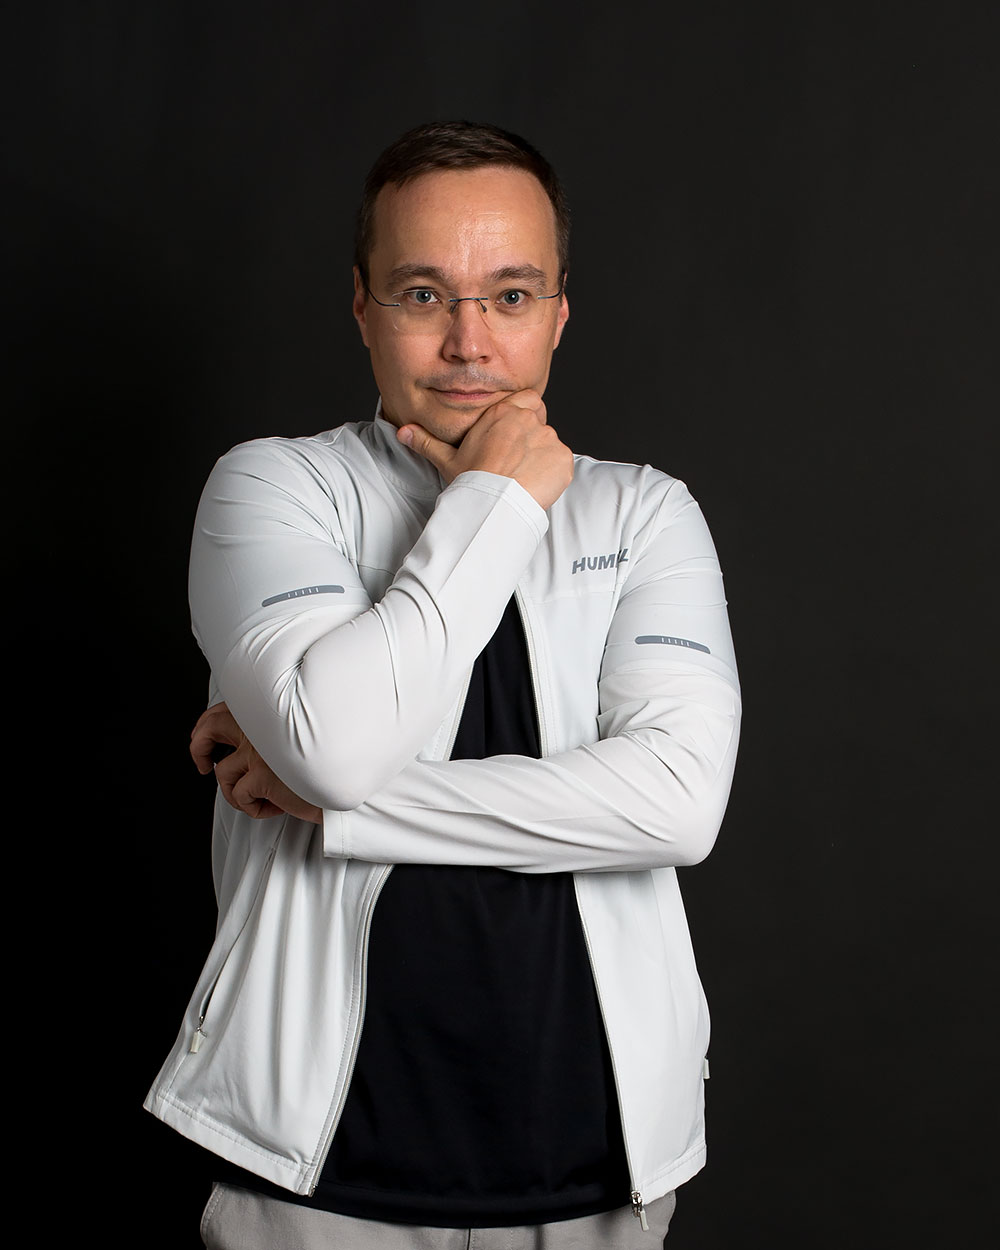
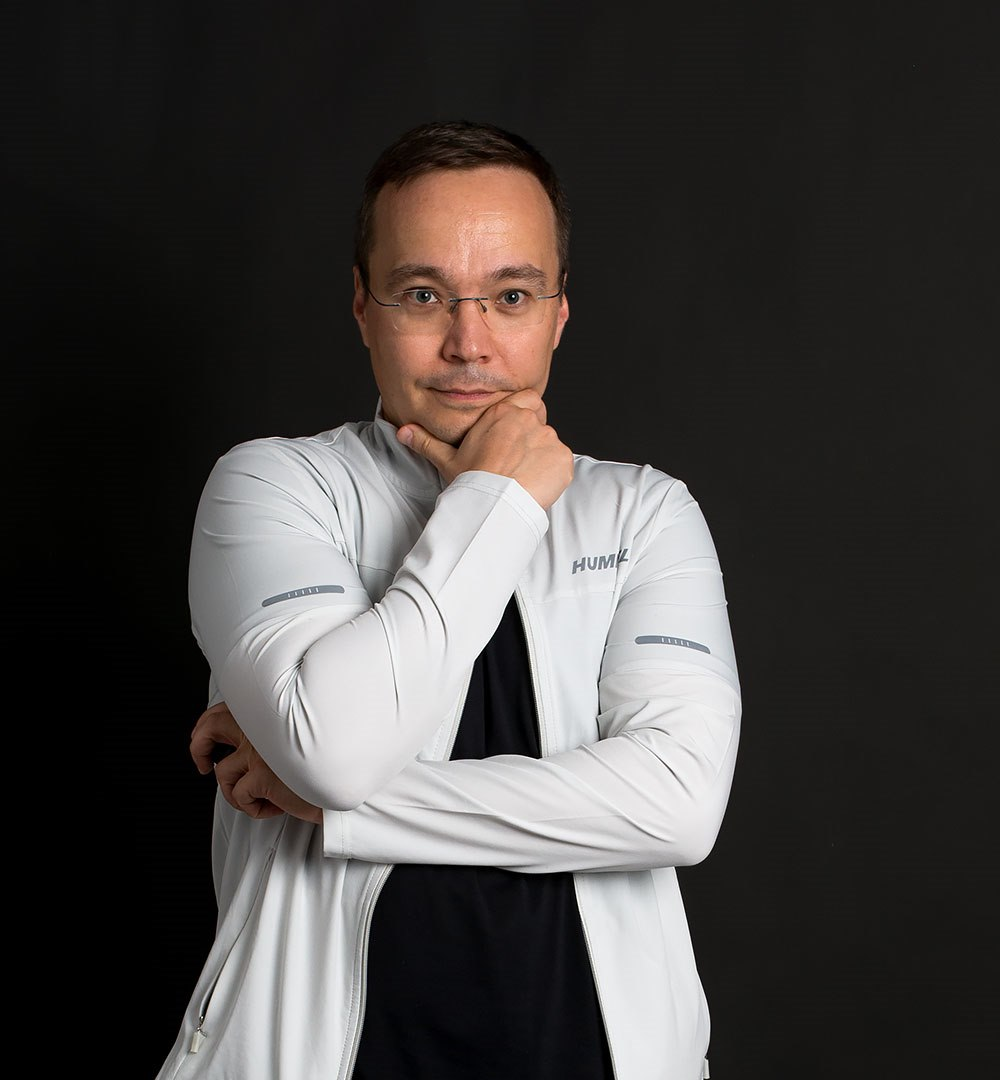
refactor(about): weave analytics history into bio prose, crop founder photo

Changed region(s): [[0.124, 0.0917, 0.744, 1.0]]

diff --git a/src/app/about/page.tsx b/src/app/about/page.tsx
@@ -25,15 +25,6 @@ const COVERS = [
   ["Tools & Models", "350+ AI tools reviewed against ROI, plus an LLM model leaderboard."],
 ];
 
-const ANALYTICS = [
-  "Led research and quality-monitoring of state and municipal services commissioned by federal and regional governments.",
-  "Designed and assessed administrative regulations, and wrote policy briefs and recommendations for government bodies.",
-  "Ran independent evaluations and “mystery shopping” to expose bottlenecks and barriers in public-service delivery.",
-  "Authored the Information Openness Standard for the Perm City Duma and co-developed the “Open Healthcare” project in Perm Krai.",
-  "Served on a working group on reducing administrative barriers for business in Perm Krai (Chamber of Commerce and Industry).",
-  "Trained federal and municipal civil servants; moderated focus groups, expert panels, and forum sessions; commented as an expert in print, radio, and TV.",
-];
-
 const EDUCATION = [
   "PhD in Political Science — Moscow State University (2014)",
   "MA in Political Science — Moscow School of Social & Economic Sciences, validated by the University of Manchester (2004)",
@@ -121,7 +112,7 @@ export default function AboutPage() {
               src="/images/sergei-ponomarev.jpg"
               alt="Sergei Ponomarev, founder of AI Business"
               width={180}
-              height={225}
+              height={194}
               className="rounded-xl border border-gray-200 w-[150px] sm:w-[180px] h-auto shrink-0"
             />
             <div className="space-y-3 text-sm leading-relaxed text-gray-700">
@@ -134,12 +125,15 @@ export default function AboutPage() {
                 adopted inside government. In 2014 I defended a PhD in Political Science at Moscow
                 State University on the implementation of e-government in Russia, completed a
                 fellowship on government openness at the Kennan Institute in Washington, D.C., and
-                taught for 14 years as a university lecturer. I spent 7 years assessing the quality
-                of public administration at an analytics center — including writing transparency
-                standards for government bodies — served 5 years as an aide to a municipal deputy,
-                and trained entrepreneurs for 4 years. Along the way I worked across social
-                entrepreneurship and impact investing. For the last year and a half I&rsquo;ve been
-                building software and AI agents hands-on.
+                taught for 14 years as a university lecturer. For seven of those years I ran applied
+                research at a public-policy center — leading nationwide monitoring of state and
+                municipal services, running independent evaluations and &ldquo;mystery shopping&rdquo;
+                to find where citizens actually get stuck, authoring the Information Openness Standard
+                for the Perm City Duma, and commenting as an expert in print, on radio, and on TV. I
+                then served 5 years as an aide to a municipal deputy and spent 4 years training
+                entrepreneurs. Along the way I worked across social entrepreneurship and impact
+                investing. For the last year and a half I&rsquo;ve been building software and AI
+                agents hands-on.
               </p>
               <p>
                 AI Business is where those two worlds meet — two decades of understanding how
@@ -157,20 +151,6 @@ export default function AboutPage() {
               </p>
             </div>
           </div>
-
-          <h3 className="text-base font-bold text-gray-900 mt-8 mb-2">Background: public administration &amp; e-government</h3>
-          <p className="text-sm leading-relaxed mb-2">
-            As Head of Analytics at a public-policy research center (2009&ndash;2015), I led applied
-            research on how government serves citizens:
-          </p>
-          <ul className="not-prose space-y-1.5">
-            {ANALYTICS.map((item) => (
-              <li key={item} className="flex items-start gap-2 text-sm text-gray-700">
-                <span className="mt-1.5 h-1 w-1 shrink-0 rounded-full bg-amber-400" />
-                {item}
-              </li>
-            ))}
-          </ul>
 
           <h3 className="text-base font-bold text-gray-900 mt-8 mb-2">Education</h3>
           <ul className="not-prose space-y-1.5">